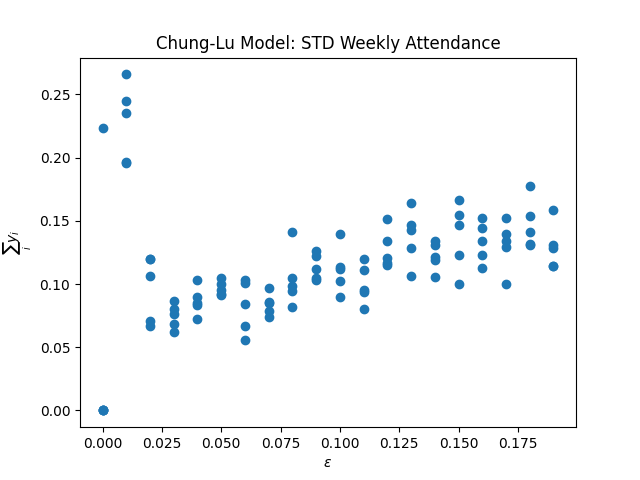
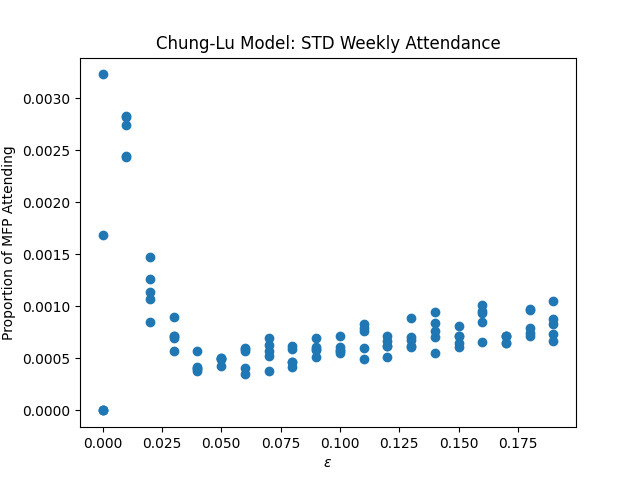
more noisy stuff

diff --git a/tex/HW.tex b/tex/HW.tex
@@ -6,6 +6,8 @@
 \usepackage{hyperref}
 \usepackage[latin1]{inputenc}
 \usepackage{listings}
+\usepackage{algorithm2e}
+\SetKwComment{Comment}{/* }{ */}
 
 \DeclareMathOperator{\Tr}{Tr}
 
@@ -34,9 +36,17 @@ Scholars have motivated the importance of this problem with applications such as
 
 There are variants of the El Farol problem that use coordination between agents to allow agents a broader choice of optimal strategies, although in such cases group coordination leads to lower overall utility as groups sharing the same strategy drive overcrowding. \cite{collins:2017} \cite{wilensky:2015}.  In addition, a variant of the problem has agents in a social network where agents' choices to go to the bar depend on their neighbors' history.   When these simulations are run on very regular network structures, a range of diverse equilibria can occur \cite{chen:2012}.  However, the agents have no innate preference to attend with or without their neighbors.
 
+To model agents with a preference to attend the bar together, we construct a model in which each agent chooses whether to attend at time $t = 1$ based on their neighbor's behaviors at time $t$.  The strategy that can be varied then is the threshold value for attendance.  Without adaptive learning, this model resembles the threshold model for binary opions, which has been rediscovered and published in different contexts by economist Thomas Schelling \cite{schelling:1978} and sociologist Mark Granovetter \cite{granovetter:1978} \cite{grabish:2020}.
+
+
+
+
+
+
+
 When agents prefer to attend with their neighbors, the system resembles a network cascade model STUFF STUFF.  While this paper does something slightly different, it resembles something by Elie Adam et al \cite{adam:2012} and similarly finds a broad range of fixed points and limit cycles.
 
-\section{Social Decision Function}
+\section{Model Specification}
 To test the hypothesis that local differences in the structure of social networks can encode the diversity of strategies required to regulate attendance, we construct a simple scenario in which each agent chooses to attend the bar if at least $\ell$ of the agent's neighbors attended the previous week.  We define the attendance vector $\vec{y}(t)$ such that
 \begin{equation}
   y_i(t) = \begin{cases}
@@ -60,6 +70,8 @@ where
 
 A traditional implementation of the El Farol bar problem would require some mechanism for modulating attendance patterns depending on the congestion level at the bar.  However, this paper will focus on the regulatory effect of the network structure itself.  As we shall see, in many cases the interaction of network structure with an appropriate choice of $\ell$ will maintain attendance below the traditional 60\% threshold. 
 
+\section{Fixed Points}
+
 Fixed points of this system occur where
 
 \begin{equation}
@@ -77,8 +89,26 @@ Unsurpisingly, the trivial fixed point of $\vec{y}_{\infty} = \vec{0}$ is a solu
 
 In general, we cannot expect $S$ to be unique.  As a simple example, suppose the network contains two mutually exclusive $\ell$-cliques, each of which is connected to the rest of the network by less than $\ell$ edges.  Then the network must have at least 3 nontrivial fixed points, consisting of the vertices in one or both cliques.
 
-However, a finite network must have a unique maximal fixed point (MFP), in which every agent that could possibly be a member of $S$ is.  
-TODO: Present MFP algo and show that sol'n is unique (or fuck off). 
+Algorithm 1, finds a fixed point of an arbitrary graph $G=(V,E)$.  We show that it will return the maximally large fixed point (MFP) possible, and that the MFP is unique for any $G$.
+
+\begin{algorithm}
+  \caption{Find MFP}\label{alg:two}
+  \KwData{$G = (V, E)$, $\ell$}
+  $G'(V', E') \gets G(V, E)$;
+  $N \gets 0$;
+  \While{$V'.size \neq N$}{
+    $N \gets $ V'.size\;
+    Delete all vertices with degree $\leq \ell$ \\
+    Remove all dangling edges
+  }
+  \Return{V'}
+  \end{algorithm}
+
+  The termination condition of the while loop guarantees that every element of $V'$ has at least $\ell + 1$ neighbors in $V'$.  Therefore, $V'$ must be a fixed point of $G$ with respect to $\ell$.  
+  
+  To show that $V'$ is the unique MFP, we introduce the following invariant that must be true at every iteration of the while loop: any $v \in V$ such that $v \notin V'$ cannot be in a fixed point of $G$ with respect to $\ell$.
+
+  On initialization, all elements of $V$ are in $V'$ so the invariant is trivially true.  During execution, the loop invariant guarantees that all possible elements of a fixed point are in $V'$, so any elements that are deleted cannot have $\ell + 1$ neighbors in the fixed point.  Therefore they cannot be in the fixed point themselves.  On exit, no additional nodes are deleted from $V'$.  So any node $v \notin V'$ cannot be a part of a fixed point and $V'$ contains the maximum possible set of nodes whose attendance could be a fixed point with respect to $\ell$. 
 
 \section{Deterministic Simulations}
 We can use numerical simulations to gain a stronger understanding of the steady state behavior of the system (if applicable).  We use three different well-understood random graph models: the Erdos-Renyi random graph, in which all possible edges exist with equal probability, the Chung-Lu model, which weights edge probabilitiies to obtain a target degree distribution, and the stochastic block model (SBM), in which the probabiliity of an edge is depends on its membership in a particular block.  Comparing the results on the Erdos-Renyi network vs. the Chung-Lu model, generated with a power law degree distribution, allows us to evaluate the impact of a heterogeneous degree distribution on the steady state of the system, while the SBM allows us to explore the impact of community structure.  The simulations were designed so that that the number of nodes and edges would be similar between the three models.  See Appendix for additional implentation details.
@@ -110,7 +140,7 @@ Further investigation revealed that agents attending alternate weeks were couple
 
 Figure 3 shows the number of distinct agents attending always, sometimes, or never in at least one trial for each of the three random graph models.  The figure shows the contrast between the Chung-Lu model with a heavy-tailed degree distribution, which has around half of the nodes in the Always and Never camp, and very few in Sometimes, compared with the Erdos-Renyi and stochastic block models, which have a much more variabiliity.  Almost all agents are occasionally in both the Always and Never groups depending on the trial, and many more agents attend sometimes.  These results suggest that more homogeneous degree distributions increase the probability of agents engaging in telephone tag behaviors, as well as variability in steady state attendance.
 
-\section{Analysis of Stability on Highly Structured Networks}
+\section{Analysis of Stability on a Lattice}
 
 \begin{figure}[h!]
 \includegraphics[width=0.5\textwidth]{one_minus.png}
@@ -136,25 +166,39 @@ However, if an agent attends an extra time in either the universal telephone tag
 
 On these networks and other $\ell + 1$-regular graphs, universal nonattendance is the only stable fixed point.  The fact that attendance can stabilize to a nonzero level in simulations on random networks is only possible because some nodes have degree greater than $\ell + 1$.
 
-\section{Noise?}
+\section{Random Noise}
 \begin{figure}
   \includegraphics[width=0.5\textwidth]{noisy_erdos_renyi_mean.png}
-  \includegraphics[width=0.5\textwidth]{noisy_chung_lu_mean.png}
-  \includegraphics[width=0.5\textwidth]{noisy_sbm_mean.png}
-  \caption{Stuff}
+  \includegraphics[width=0.5\textwidth]{mean_degree_v_noise.png}
+  \caption{Behavior with noise on an Erdos-Renyi random graph, $\ell + 1 = 4$, varying $\epsilon$, $\langle k \rangle = 9.69$ (Top), and varying $\langle k \rangle$, $\epsilon = 0.15$ (Bottom)}
 \end{figure}
 
-Adding noise allows encourages the telephone tag scenario to synchronize but also allows stable fixed points to erode?  Locally treelike networks with heterogeneous degree distributions may settle into something close to the maximal fixed point.  Punctuated equilibria on SBM.
+In deterministic simulations on both regular and random networks, telephone tag phenomena are common and the MFP is often unreachable.  When each node has degree exactly $\ell + 1$, we have seen that the presence of randomness drives attendance down.  However, with sufficient density of edges, noise could allow otherwise unreachable nodes in the MFP to begin attending.
 
-\section{Discussion and Future Work}
+To test the impact of noise on random networks, we introduce a new parameter, $\epsilon$ to govern the noisiness of the system.  We define
 
-The El Farol Bar problem has traditionally considered a population of agents with diverse strategies attempting to share a limited resource.  Traditional strategies often result in some agents attending always, some attending never, and some attending periodically, with a total attendance close to the tolerance threshold.
+\begin{equation}
+  F'(\vec{x})_i = \begin{cases}
+    1 - F(x_i) &\text{with} \\
+    & \text{probabiliity} \epsilon \\
+    F(x_i) &\text{otherwise}
+  \end{cases}
+\end{equation}
 
-In this paper, we find that a population of agents all following the same network-based strategy can behave in a similar way, with a subset of agents always attending, a subset never attending, and a subset attending periodically.  Furthermore, we have seen how network topology and the inclusion of noise influence the outcomes.
+and set
+\begin{equation}
+  \vec{y}(t + 1) = F'(\mathbf{A}\vec{y}(t))
+\end{equation}
 
-In addition to exploring a classic game theory problem with a new twist, this work has interesting parallels with opinion modeling.  Spread of trends, social media hashtags.  Hipster effect.
+We find an interesting relationship between $\langle k \rangle$ and $\epsilon$.  When $\langle k \rangle$ is sufficiently large, figure 7 (top) shows that increasing $\epsilon$ increases attendance until the network is reliably close to the MFP.  However, figure 7 (bottom) shows that this effect only occurs after a phase transition occuring around $\langle k \rangle = 2 (\ell + 1)$.
 
-A natural extension of this work would be to allow agents to evolve their strategies toward improving their utiility.  In this scenario, an agents' behavior would depend not only on the topology of the neighborhood but on the distribution of strategies within it.  It could also be interesting to examine the results of these processes on empirical social network datasets, which tend to be much less locally treelike than the random graph models examined.    
+\section{Discussion}
+
+The El Farol Bar problem has traditionally considered a population of agents with diverse strategies attempting to share a limited resource.  Traditional strategies often result in some agents attending always, some attending never, and some attending periodically, with a total attendance close to the tolerance threshold\cite{arthur:1994} \cite{stLuce:2020}.
+
+In this paper, we find that a population of agents all following the same network-based strategy can behave similarly to the system of agents with heterogeneous strategies, with a subset of agents always attending, a subset never attending, and a subset attending periodically.  Furthermore, we have see how the interaction of the threshold, network structure, and random noise can effect the strategy distribution, with higher mean degrees, and, in some regimes increased noise leading to higher rates of attendance, and heterogeneous degree distributions leading to decreased sensitivity to initial conditions and lower rates of telephone tag behaviors.
+
+A network can encode a distribution of strategies across multiple agents, but a natural extension of this work would be to reintroduce the evolutionary or inductive learning component that characterizes previous work on the El Farol bar problem.  One way to do this would be to allow agents to vary their $\ell$ value based on past performance.  Another possibility would be to allow agents to modify the network structure, such as forming new edges if they do not have sufficient friends in attendance, or removing edges if they are encountering congestion.  It could also be interesting to examine the results of these processes on empirical social network datasets, which tend to be much less locally treelike than the random graph models examined.    
 
 \bibliographystyle{plain} % We choose the "plain" reference style
 \bibliography{refs} % Entries are in the refs.bib file

diff --git a/scripts/Chung Lu Degrees.py b/scripts/Chung Lu Degrees.py
@@ -139,21 +139,23 @@ def simulate_with_noise(A, title, fname):
 
     for eps in epsilons:
         cnts = run_simulation_batch(A, n_iter, eps, M, minfriends, minbad, batch_size, rng)
-        weekly = (cnts.sum(axis=0)[:batch_size]/(950))
+        mfp = cnts.maximal_fixed_point.sum()
+
+        weekly = (cnts.sum(axis=0)[:batch_size]/(950*mfp))
         cnts_std.append(weekly.std())
         cnts_mean.append(weekly.mean())
             
     plt.figure()
     plt.scatter(epsilons, cnts_mean)
     plt.xlabel("$\epsilon$")
-    plt.ylabel("$\sum_i y_i$")
+    plt.ylabel("Proportion of MFP Attending")
     plt.title(title.format("Mean"))
     plt.savefig(fname.format("mean"))
     
     plt.figure()
     plt.scatter(epsilons, cnts_std)
     plt.xlabel("$\epsilon$")
-    plt.ylabel("$\sum_i y_i$")
+    plt.ylabel("Proportion of MFP Attending")
     plt.title(title.format("STD"))
     plt.savefig(fname.format("std"))
 
@@ -173,11 +175,13 @@ if __name__ == "__main__":
     n_trials =  5
     batch_size = 30
     
-    gammas = np.arange(1.1, 4.1, 0.05)
+    gammas = np.arange(1.3, 4.1, 0.05)
     gammas = np.hstack([gammas] * n_trials)
     gammas.sort()
 
     k_0 = 10
+
+    """
     
     for gamma in gammas:
         k = truncated_power_law(gamma, k_0, n, rng, size=size).astype(int)
@@ -197,6 +201,7 @@ if __name__ == "__main__":
                 break
                     
         A = generate_chung_lu(k, rng)
+        print(f"K_0:{k_0}")
         print(f"Mean degree: {A.sum(axis=0).mean()}")
         k_std.append(A.sum(axis=0).std())
         
@@ -216,6 +221,40 @@ if __name__ == "__main__":
     plt.ylabel("Std of limiting attendance")
     plt.title("Chung-Lu Model: Impact of degree distribution")
     plt.savefig("images/chung_lu_std.png")
+    """
+
+    print("Simulating attendance vs. degree with noise")
+    eps = 0.2
+    N = size
+
+    probs = np.arange(0.02, 0.031, 0.0005)
+    probs = np.hstack([probs] * n_trials)
+    probs.sort()
+
+    attendance = []
+    mean_deg = []
+
+    for p in probs:
+        G = nx.gnp_random_graph(N, p, seed=rng.choice(1000))
+        A = nx.convert_matrix.to_numpy_array(G)
+        mean_deg.append(A.sum(axis=0).mean())
+        cnts = run_simulation_batch(A, n_iter, eps, M, minfriends, minbad, batch_size, rng)
+        
+        mfp = cnts.maximal_fixed_point.sum()
+
+        weekly = (cnts.sum(axis=0)[:batch_size]/(950 * mfp))
+        attendance.append(weekly.mean())
+
+    attendance = np.array(attendance)
+    mean_deg = np.array(mean_deg)
+
+    mask = np.where(attendance < 2)[0]
+
+    plt.scatter(mean_deg[mask], attendance[mask])
+    plt.xlabel("Mean Degree")
+    plt.ylabel("Proportion of MFP Attending")
+    plt.title("Attendance on a Noisy Erdos-Renyi Network")
+    plt.savefig("images/mean_degree_v_noise.png")
 
     print("Now simulating with noise")
     gamma = 2.3
@@ -234,7 +273,6 @@ if __name__ == "__main__":
     N = len(A)
     p = k_bar / N
 
-    # G = nx.gnp_random_graph(N, 0.03268, seed=8888777)
     G = nx.gnp_random_graph(N, p, seed=8888777)
     A = nx.convert_matrix.to_numpy_array(G)
     print(f"Mean degree: {A.sum(axis=0).mean()}")
